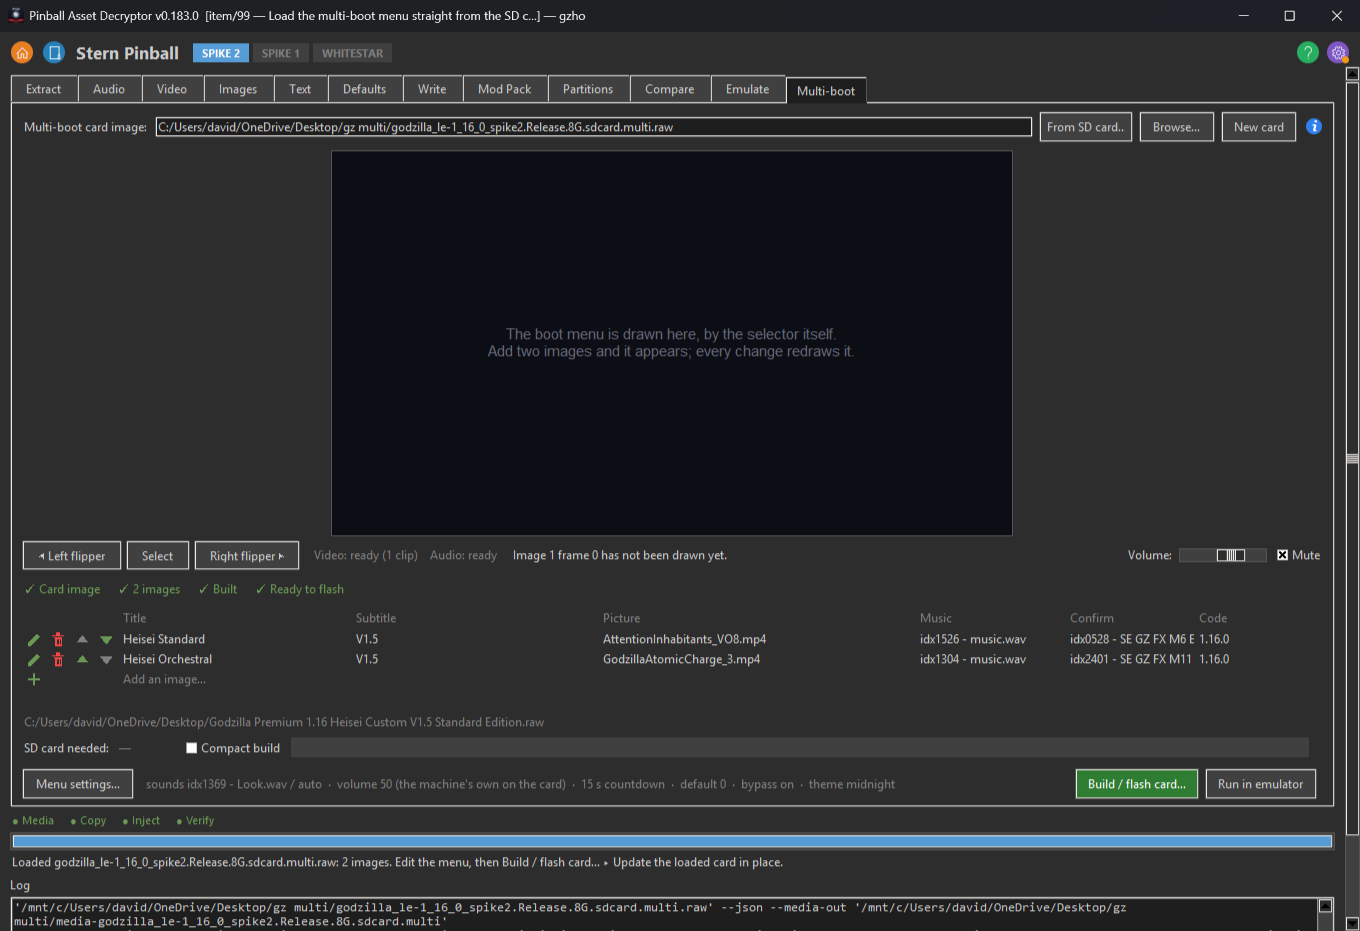
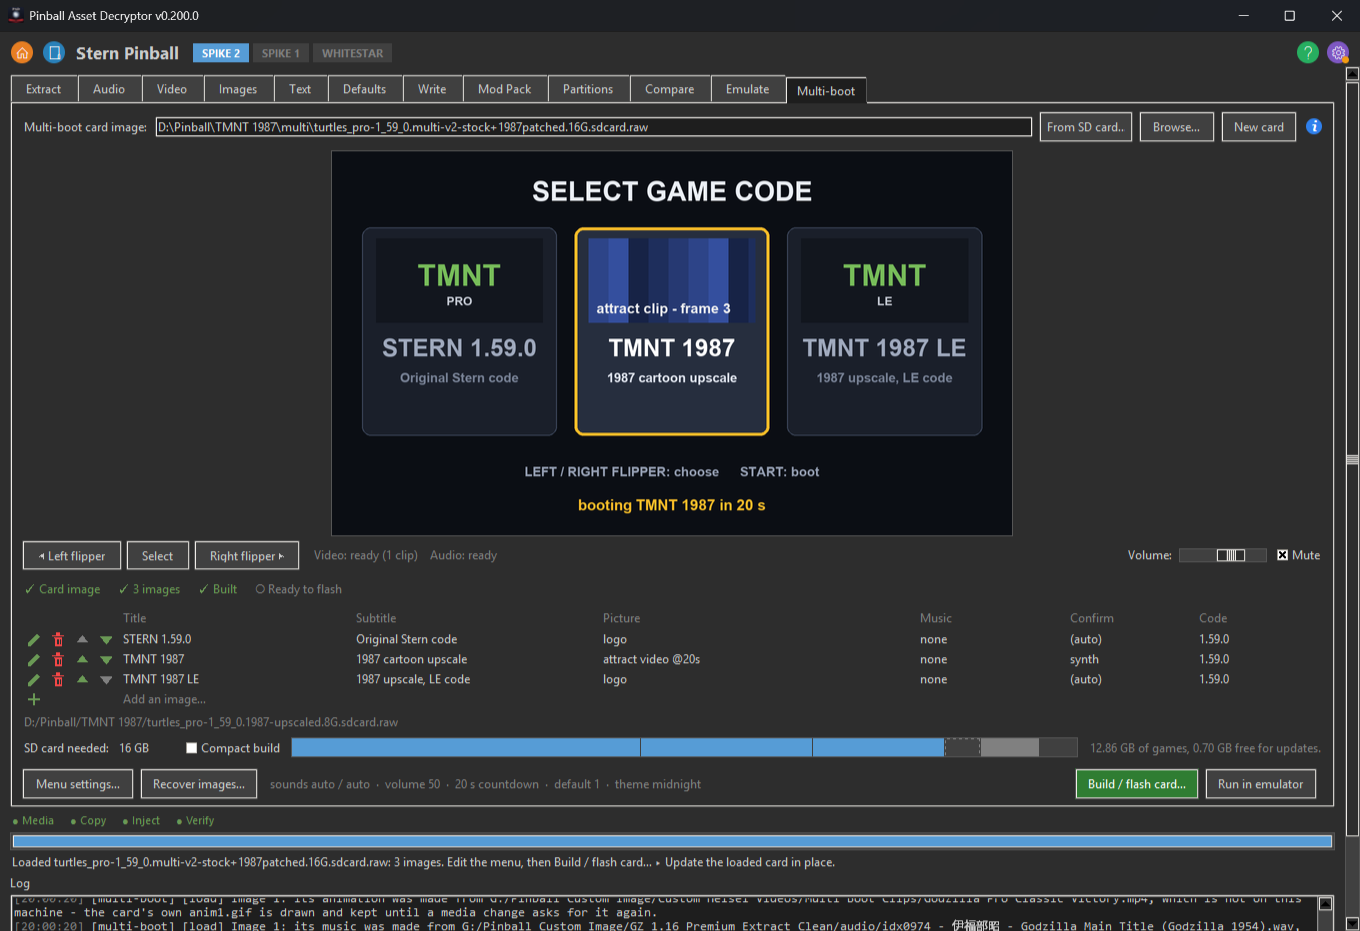
v0.200.0 - A multi-boot card someone else built can be recovered, updated and given a third image
A downloaded multi-boot card now loads and draws its own menu even though it names its images and media on the machine that built it, and the new Recover images... button writes each image back out of the card as a normal card image of its own, so the card can be updated in place, rebuilt, or given another title here. From SD card... can read the whole card into a .raw you name, sized to the card image rather than the SD card. An update matches a source that moved by its content, so a recovered image is kept rather than rewritten. The multi-boot verify no longer refuses the app's own runtime over two optional cross-check tools.

diff --git a/pinball_decryptor/gui/help_dialog.py b/pinball_decryptor/gui/help_dialog.py
@@ -1577,8 +1577,9 @@ HELP_CONTENT = {
          "it — Card image, Images, Built, Ready to flash — each with the "
          "sentence behind its mark. Then the SIZE STRIP: which SD card the images "
          "need, the Compact build tick, and a bar of what fills the card. "
-         "Then one bar: Menu settings… on the left, and on the right ONE "
-         "green button, Build / flash card…, beside Run in emulator. "
+         "Then one bar: Menu settings… and Recover images… on the left, "
+         "and on the right ONE green button, Build / flash card…, beside "
+         "Run in emulator. "
          "Everything the tools print goes to the Log at the foot of the "
          "window, beside the other tabs', and the footer's stages and "
          "progress bar are this tab's own while you are on it."),
@@ -1594,11 +1595,15 @@ HELP_CONTENT = {
          "you have unsaved changes, and answering no leaves the box "
          "alone). Typing alone never reads a card, because on the way to "
          "typing one name you pass through another that exists. From SD "
-         "card… reads the boot menu straight off the card in the reader — "
-         "titles, pictures, sounds, settings and where the images came "
-         "from — without its image file: only the menu's part of the card "
-         "is read, so the games' versions are not shown, and Build / flash "
-         "card… then writes the menu back onto that card. The checks above "
+         "card… reads the card in the reader, and asks which read you "
+         "want: the boot menu only — titles, pictures, sounds, settings "
+         "and where the images came from, without an image file; only the "
+         "menu's part of the card is read, so the games' versions are not "
+         "shown, and Build / flash card… then writes the menu back onto "
+         "that card — or the whole card, into a .raw you name, which then "
+         "loads like any card on disk (its images can be recovered, "
+         "replaced or added to, and the Build / flash dialog's flash "
+         "section puts it back). The checks above "
          "the table always say which of these you are in, and what the "
          "green button would do about it. Point the box somewhere else "
          "while a card is loaded and the tab simply stops claiming to be "
@@ -1609,6 +1614,24 @@ HELP_CONTENT = {
          "comes back the way you left it on the next launch, per project, "
          "the way the Emulate tab's card does; it comes back OUT of editing "
          "mode, and nothing is read or run to restore it."),
+        ("A card someone else built",
+         "A multi-boot card you were given loads like any other and draws "
+         "its own menu — but it names its images, and the videos and WAVs "
+         "its pictures were made from, on the machine that built it, so "
+         "the rows say \"not on this machine\" and nothing that needs the "
+         "sources can run: no update in place, no rebuild, no third image. "
+         "Recover images… is the way on. It writes each image back out of "
+         "the card as a normal card image of its own (the game as its "
+         "games partition, the boot menu taken out), named as the card "
+         "records it, copies the card's pictures and sounds out beside "
+         "them, and points the rows at those files — a recovery is not a "
+         "change, so nothing reads as unsaved. From then on the card is "
+         "one this machine built: Build / flash card… can update it in "
+         "place, rebuild it, or write a fresh card with another image "
+         "added. The button is greyed while every image is already on "
+         "this machine, and for a card read from the reader as its menu "
+         "only — read the whole card for that. Reads the card, writes only "
+         "into the folder you pick."),
         ("The images table",
          "One row per image, in the order the menu will list them, and "
          "each row carries that image's own settings: its title and "

diff --git a/pinball_decryptor/__init__.py b/pinball_decryptor/__init__.py
@@ -1,3 +1,3 @@
 """Pinball Asset Decryptor — unified decryptor for multiple pinball makers."""
 
-__version__ = "0.199.0"
+__version__ = "0.200.0"
